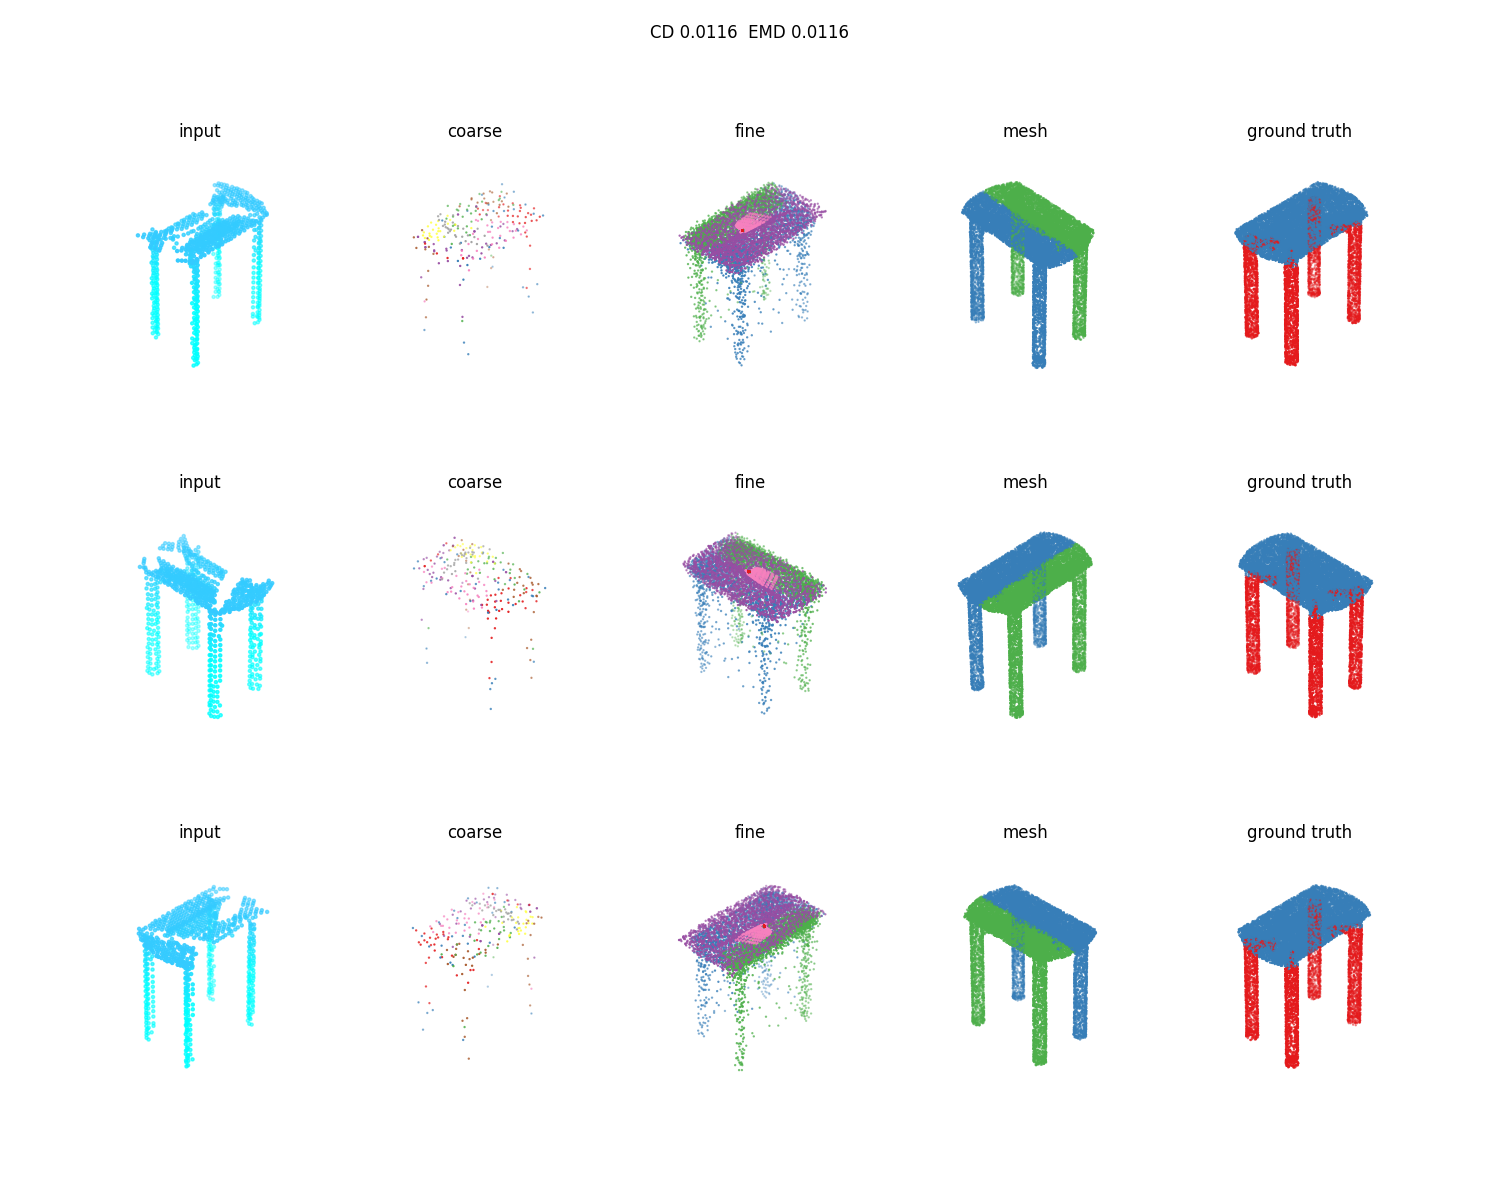
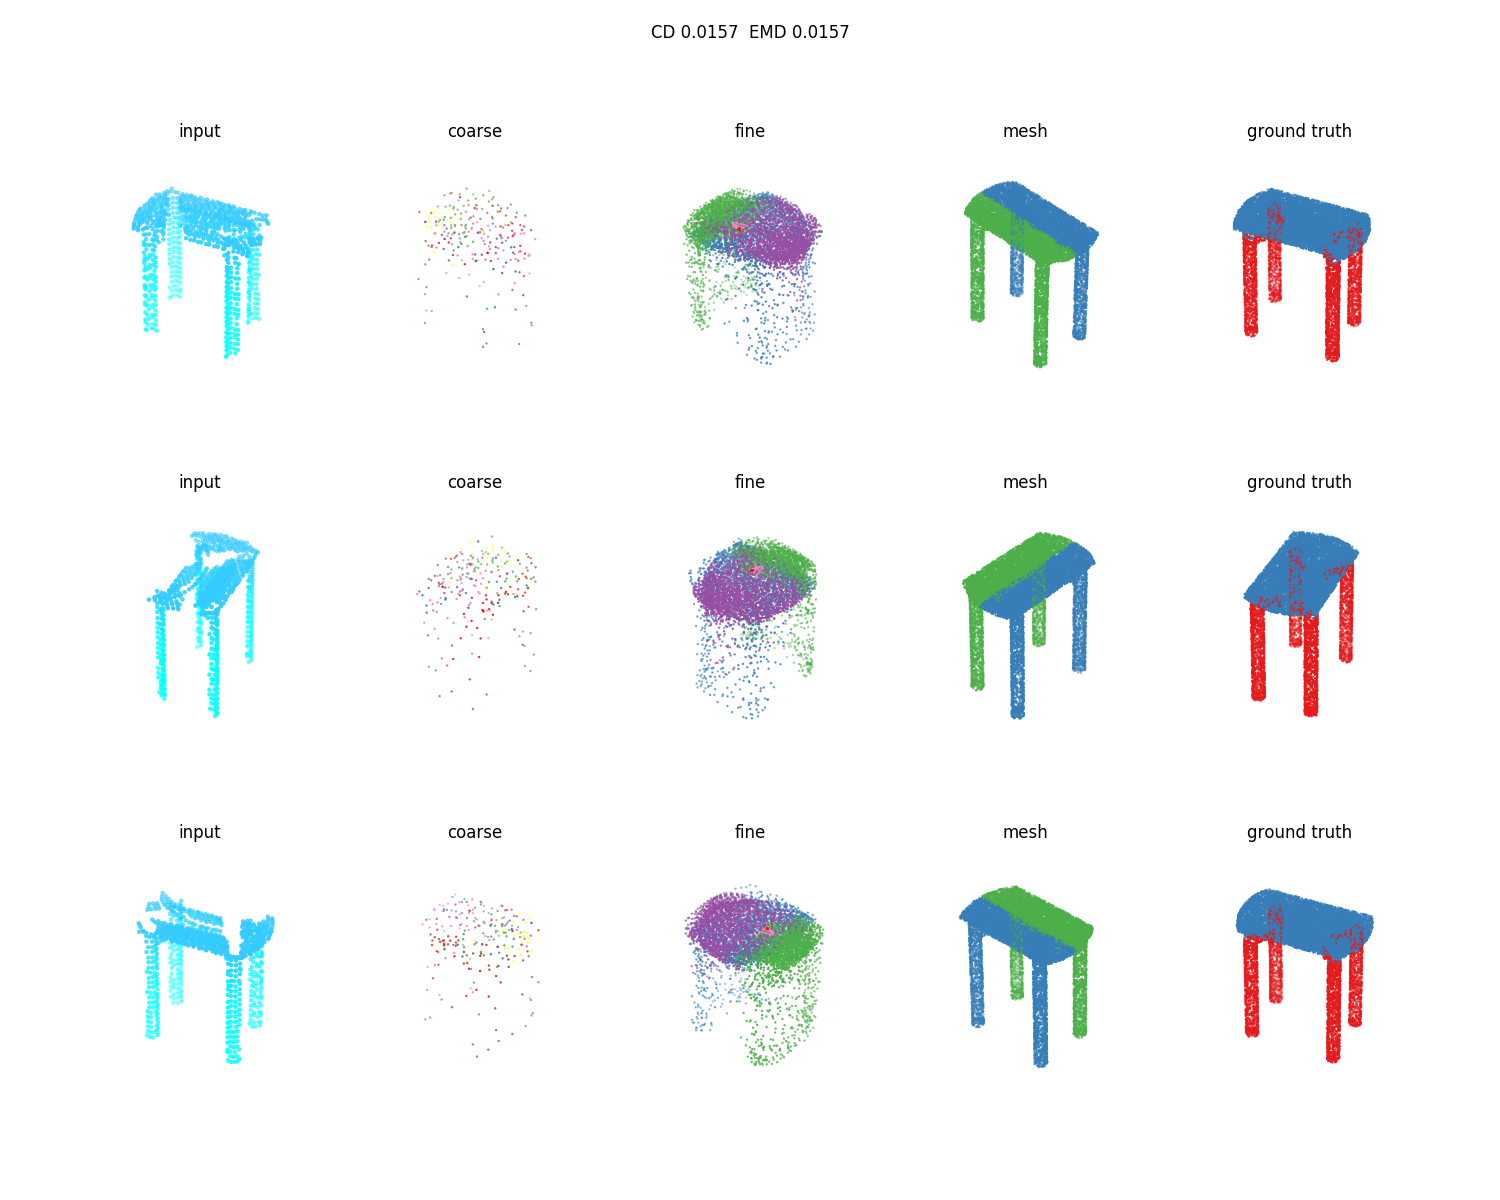
add plots

diff --git a/test_shapenet.py b/test_shapenet.py
@@ -68,7 +68,7 @@ def test(args):
             complete = read_pcd(
                 os.path.join(args.data_dir, 'pcd_complete',
                              '%s.pcd' % model_id))
-        rotate = False
+        rotate = True
         if rotate:
             angle = np.random.rand(1) * 360
             partial = np.stack([
